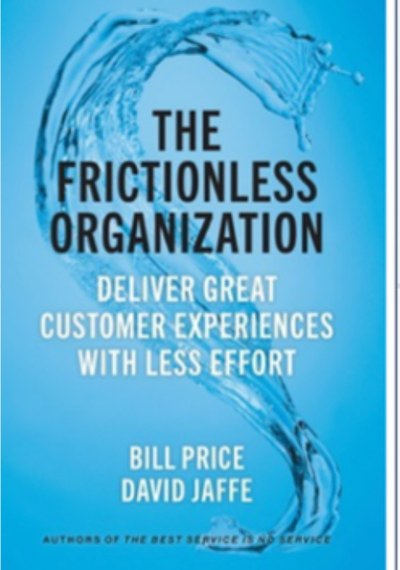
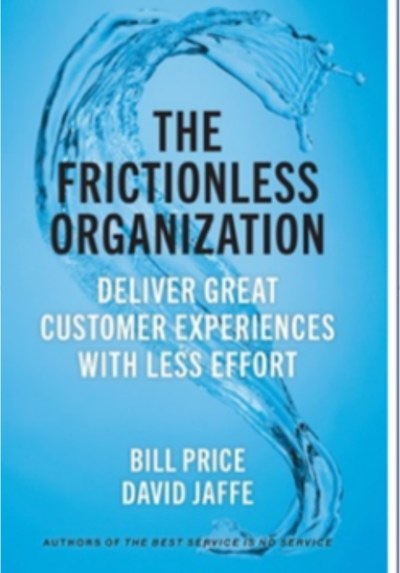
Straighten book covers and strip leftover frames from the crops
- Removed the decorative tilt; covers now sit straight
- Re-cropped each cover to remove the slide's picture-frame lines and,
  on The Frictionless Organization, residual slide background on the
  right edge. Artwork now bleeds cleanly to the image edge.

diff --git a/about.html b/about.html
@@ -8,7 +8,7 @@
   <link rel="icon" href="assets/logos/favicon/favicon-32x32.png" />
   <link rel="stylesheet" href="css/variables.css?v=38" />
   <link rel="stylesheet" href="css/base.css?v=38" />
-  <link rel="stylesheet" href="css/layout.css?v=109" />
+  <link rel="stylesheet" href="css/layout.css?v=110" />
   <link rel="stylesheet" href="css/components.css?v=38" />
   <link rel="stylesheet" href="css/animations.css?v=38" />
 </head>
@@ -402,31 +402,31 @@
 
         <div class="shelf reveal-stagger">
           <article class="spine reveal">
-            <img class="spine__cover" src="assets/images/books/best-service-is-no-service.jpg" alt="Cover of The Best Service is No Service by Bill Price" width="400" height="529" loading="lazy" />
+            <img class="spine__cover" src="assets/images/books/best-service-is-no-service.jpg" alt="Cover of The Best Service is No Service by Bill Price" width="400" height="530" loading="lazy" />
             <span class="spine__year">2008</span>
             <h3>The Best Service is No Service</h3>
             <p>The best customer service is eliminating the need for customers to contact support — by fixing root problems.</p>
           </article>
           <article class="spine reveal">
-            <img class="spine__cover" src="assets/images/books/your-customer-rules.jpg" alt="Cover of Your Customer Rules! by Bill Price" width="400" height="542" loading="lazy" />
+            <img class="spine__cover" src="assets/images/books/your-customer-rules.jpg" alt="Cover of Your Customer Rules! by Bill Price" width="400" height="539" loading="lazy" />
             <span class="spine__year">2015</span>
             <h3>Your Customer Rules!</h3>
             <p>How organisations must adapt to empowered digital customers, and redesign operations to match.</p>
           </article>
           <article class="spine reveal">
-            <img class="spine__cover" src="assets/images/books/the-frictionless-organization.jpg" alt="Cover of The Frictionless Organization by Bill Price" width="400" height="570" loading="lazy" />
+            <img class="spine__cover" src="assets/images/books/the-frictionless-organization.jpg" alt="Cover of The Frictionless Organization by Bill Price" width="400" height="573" loading="lazy" />
             <span class="spine__year">2022</span>
             <h3>The Frictionless Organization</h3>
             <p>How companies remove internal and customer friction through cross-department collaboration and process redesign.</p>
           </article>
           <article class="spine reveal">
-            <img class="spine__cover" src="assets/images/books/zero-complaints.jpg" alt="Cover of Zero Complaints by Bill Price" width="400" height="543" loading="lazy" />
+            <img class="spine__cover" src="assets/images/books/zero-complaints.jpg" alt="Cover of Zero Complaints by Bill Price" width="400" height="545" loading="lazy" />
             <span class="spine__year">2025</span>
             <h3>Zero Complaints</h3>
             <p>Tools, frameworks, and case studies to implement the &ldquo;no service&rdquo; philosophy at scale.</p>
           </article>
           <article class="spine spine--next reveal">
-            <img class="spine__cover" src="assets/images/books/humanx.jpg" alt="Cover of HumanX by Bill Price" width="400" height="583" loading="lazy" />
+            <img class="spine__cover" src="assets/images/books/humanx.jpg" alt="Cover of HumanX by Bill Price" width="400" height="575" loading="lazy" />
             <span class="spine__year">2026</span>
             <h3>HumanX</h3>
             <p><em>El Fin de la CX</em> — restoring the human elements of customer experience. Spanish first (LID Editorial, Spring 2026).</p>

diff --git a/css/layout.css b/css/layout.css
@@ -6290,14 +6290,10 @@ body.resources main > section:not(.res-hero) { padding-block: var(--space-16); }
   transition: transform var(--duration-slow) var(--ease-standard),
               box-shadow var(--duration-slow) var(--ease-standard);
 }
-/* a touch of shelf irregularity — these are objects, not tiles */
-.shelf .spine:nth-child(odd)  .spine__cover { transform: rotate(-1.2deg); }
-.shelf .spine:nth-child(even) .spine__cover { transform: rotate(1deg); }
 .spine:hover .spine__cover {
-  transform: rotate(0deg) translateY(-6px);
+  transform: translateY(-6px);
   box-shadow: 0 20px 38px -12px rgba(40, 40, 45, 0.48), 0 1px 3px rgba(40, 40, 45, 0.2);
 }
 @media (prefers-reduced-motion: reduce) {
-  .shelf .spine .spine__cover { transform: none; }
   .spine:hover .spine__cover { transform: none; }
 }
